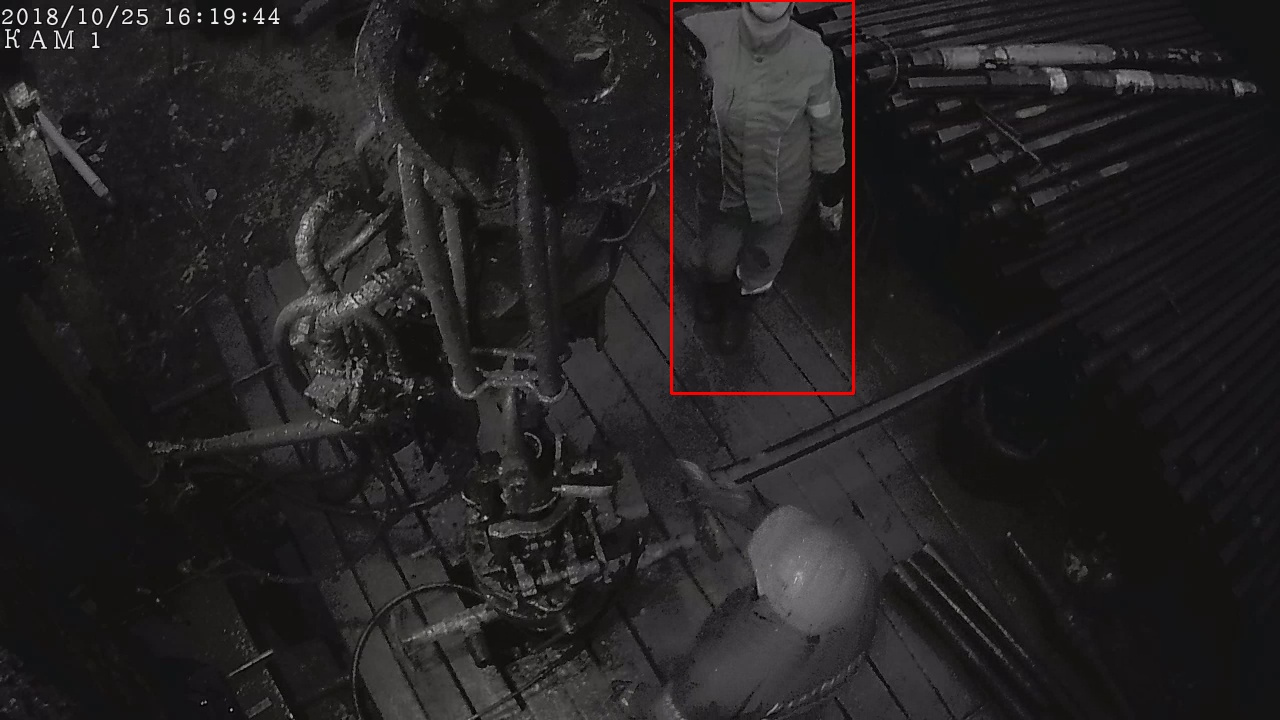
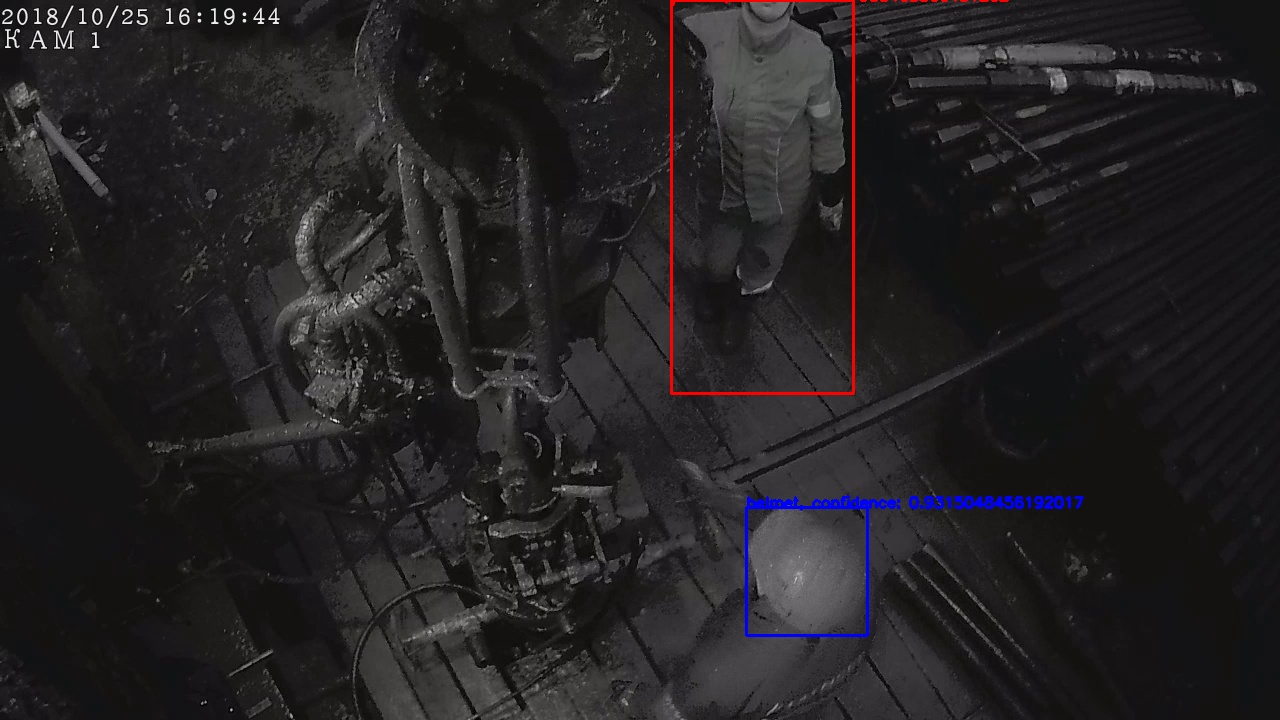
commit

Changed region(s): [[0.5625, 0.6722, 0.8438, 0.8861], [0.75, 0.0, 0.7812, 0.0306]]

diff --git a/huerga.py b/huerga.py
@@ -25,7 +25,7 @@ class Detector:
     def __init__(self):
         self.model = YOLO("best.pt")
         self.CONFIDENCE_THRESHOLD = 0.7
-
+        self.keyDict = {0:'person', 1:'helmet'}
 
     def detection(self, frame):
         detections = self.model(frame, verbose=False)[0] 
@@ -36,19 +36,21 @@ class Detector:
                     if data[4] < self.CONFIDENCE_THRESHOLD:
                         continue
                     xmin,ymin, xmax, ymax, class_id = int(data[0]), int(data[1]), int(data[2]), int(data[3]), int(data[5])
-                    results[class_id].append([xmin, ymin, xmax, ymax])
-                    # cv2.rectangle(frame, (xmin,ymin), (xmax, ymax), (0, 255, 0), 2)
-                    # cv2.putText(frame, f'{0}', (xmin,ymin), cv2.FONT_HERSHEY_SIMPLEX, 0.5, (0, 255, 0), class_id)
+                    results[class_id].append([xmin, ymin, xmax, ymax, float(data[4])])
+                    if class_id == 1:
+                        cv2.rectangle(frame, (xmin,ymin), (xmax, ymax), (255, 0, 0), 2)
+                        cv2.putText(frame, f'{self.keyDict[class_id]}, confidence: {data[4]}', (xmin,ymin), cv2.FONT_HERSHEY_SIMPLEX, 0.5, (255, 0, 0), 2)
         frame = self.analyze(frame, results)
         return frame
 
     def analyze(self, frame, detections):
+        
         red = (0, 0, 255)
         green = (0, 255, 0)
         if not len(detections[1]):
             for i in detections[0]:
                 cv2.rectangle(frame, (i[0], i[1]), (i[2], i[3]), red, 2)
-                cv2.putText(frame, f'{0}', (i[0], i[1]), cv2.FONT_HERSHEY_SIMPLEX, 0.5, red, 2)
+                cv2.putText(frame, f'{self.keyDict[0]}, confidence: {i[4]}', (i[0], i[1]), cv2.FONT_HERSHEY_SIMPLEX, 0.5, red, 2)
         else:
             for person in detections[0]:
                 hats = []
@@ -58,19 +60,20 @@ class Detector:
                     hatDist = np.sqrt((personCenter[0] - hatCenter[0])**2+(personCenter[1] - hatCenter[1])**2)
                     hats.append(hat.copy()+[hatDist])
 
-                hats = sorted(hats, key = lambda x : x[4],reverse=False)
+                hats = sorted(hats, key = lambda x : x[5],reverse=False)
                 hat = hats[0]
                 hatCenter = (hat[0]+(hat[2] - hat[0])/2, hat[1]+(hat[3] - hat[1])/2)
                 if hatCenter[0] >= person[0] and hatCenter[0] <= person[2] and  hatCenter[1] >= person[1] and hatCenter[1] <= person[3]:
                     cv2.rectangle(frame, (person[0], person[1]), (person[2], person[3]), green, 2)
-                    cv2.putText(frame, f'{0}', (person[0], person[1]), cv2.FONT_HERSHEY_SIMPLEX, 0.5, green, 2)
+                    cv2.putText(frame, f'{self.keyDict[0]}, confidence: {person[4]}', (person[0], person[1]), cv2.FONT_HERSHEY_SIMPLEX, 0.5, green, 2)
                 else:
                     '''
                     TODO:
                     additional classifier
                     '''
+                    
                     cv2.rectangle(frame, (person[0], person[1]), (person[2], person[3]), red, 2)
-                    cv2.putText(frame, f'{0}', (person[0], person[1]), cv2.FONT_HERSHEY_SIMPLEX, 0.5, red, 2)
+                    cv2.putText(frame, f'{self.keyDict[0]}, confidence: {person[4]}', (person[0], person[1]), cv2.FONT_HERSHEY_SIMPLEX, 0.5, red,2 )
         return frame       
 
 
@@ -86,7 +89,7 @@ class Main:
                 cv2.imshow('image', detected_frame)
                 cv2.imwrite(f'results/{i}.jpg', detected_frame)
                 i+=1
-                cv2.waitKey(1)
+                cv2.waitKey(1000)
             except StopIteration:
                 break
 
